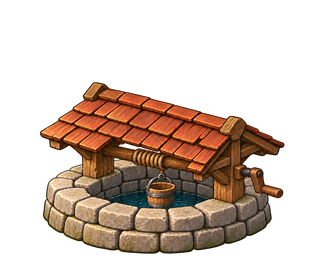
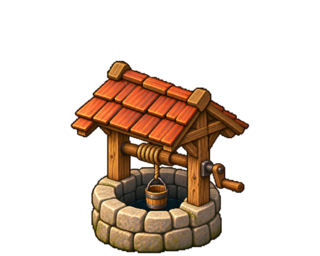
fix: replace oversized well with compact isometric sprite

diff --git a/tests/well-art.py b/tests/well-art.py
@@ -1,0 +1,18 @@
+"""python3 tests/well-art.py: compact well silhouette and stable render interface."""
+from pathlib import Path
+from PIL import Image
+
+image = Image.open(Path(__file__).resolve().parents[1] / 'assets/buildings/well.png')
+assert image.mode == 'RGBA' and image.size == (320, 256)
+alpha = image.getchannel('A')
+assert alpha.getextrema() == (0, 255)
+assert all(alpha.getpixel(point) == 0 for point in [(0, 0), (319, 0), (0, 255), (319, 255)])
+# Ignore near-transparent antialiasing when measuring the actual structure.
+left, top, right, bottom = alpha.point(lambda value: 255 if value > 32 else 0).getbbox()
+assert 170 <= right - left <= 190, 'Do not regress to the oversized 245px-wide basin'
+assert 185 <= bottom - top <= 205, 'Keep the upright, compact well silhouette'
+assert abs((left + right) / 2 - 160) <= 2, 'Keep the bottom-center sprite anchor'
+assert 252 <= bottom <= 254, 'Retain the two-pixel lower margin used by render.js'
+# At the unchanged 160px draw width, the visible well is about 90px wide.
+assert (right - left) * 0.5 <= 95
+print('Well art: RGBA, compact silhouette, 320x256 canvas and ground anchor passed')

diff --git a/docs/art-assets/well.md b/docs/art-assets/well.md
@@ -1,0 +1,11 @@
+# Compact well sprite
+
+The old well artwork used a broad, shallow stone basin and nearly frontal red-tile canopy. In the village it read as a covered pool rather than a compact well. The replacement has a narrower circular stone shaft, visible rope and bucket, taller timber posts, and a roof closer to the neighboring buildings' isometric perspective.
+
+Only `assets/buildings/well.png` changes at runtime. The transparent 320 × 256 canvas, bottom-center anchor, two-pixel lower margin, 160px rendering width, 2 × 2 footprint and all firefighting behavior remain unchanged. The visible silhouette is 180px wide in the source (90px on screen), rather than approximately 245px (122.5px on screen).
+
+Source: original artwork generated using the built-in image tool, with the existing well as the edit target and the user's village screenshot as visual style reference. No screenshot pixels are included in the sprite. The output was cropped to the well silhouette and proportionally resized/padded for the existing runtime interface. No third-party stock artwork or additional runtime dependencies were introduced.
+
+Prompt: compact deep circular medieval stone well, two timber posts, wooden winch, rope and bucket, modest red terracotta gabled roof aligned to the village's 2:1 isometric perspective; warm muted painterly pixel-game texture, upper-left light, transparent background; no terrain, people, snow, UI or text.
+
+Verification: `python3 tests/well-art.py`; `node tests/housing-fire-render.js`; `node tests/housing-fire.js` (17); `node tests/housing-fire-ui.js` (32). The render regression executes the actual building renderer and checks the unchanged sprite routing, width and ground anchor. Offline old/new asset comparison was inspected at game scale alongside a house and an adult. This is not a browser screenshot or a full-game/mobile acceptance claim.
